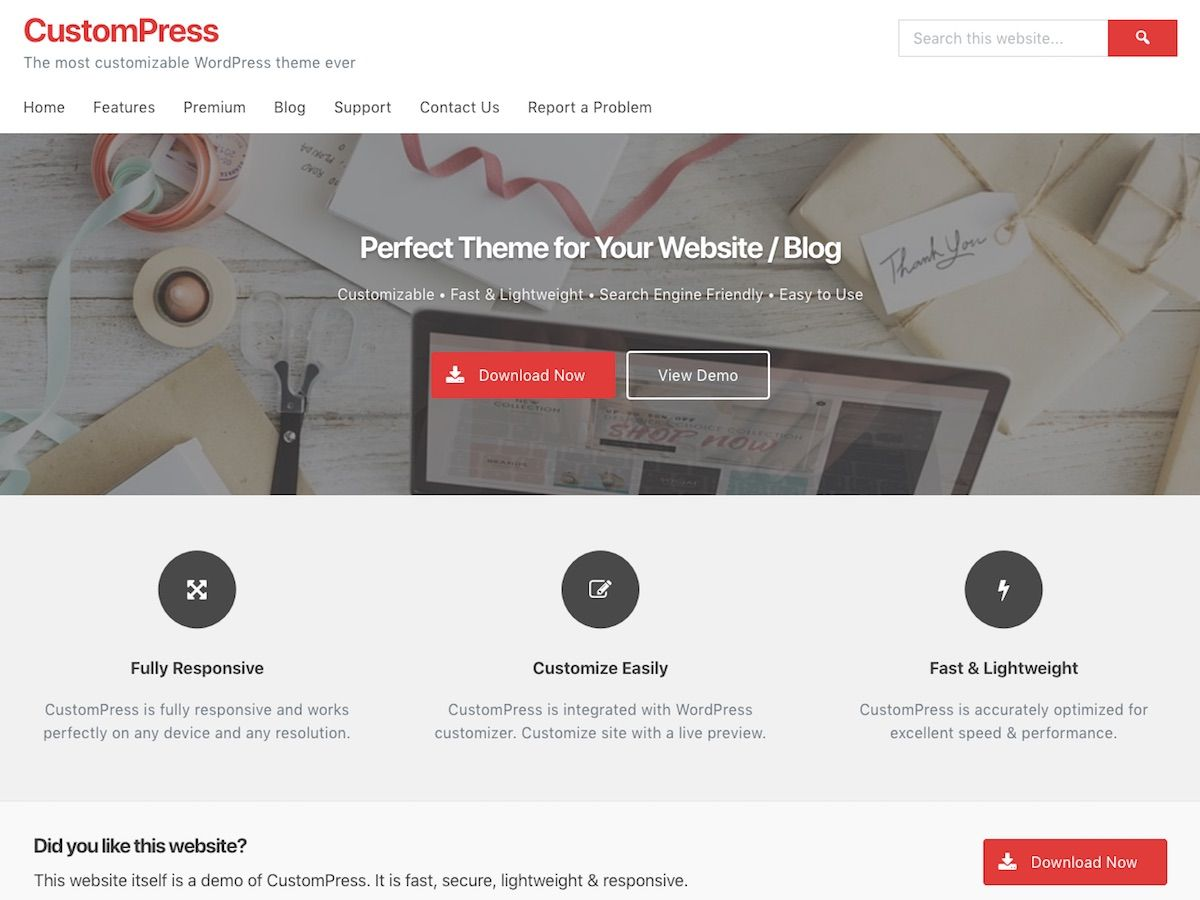
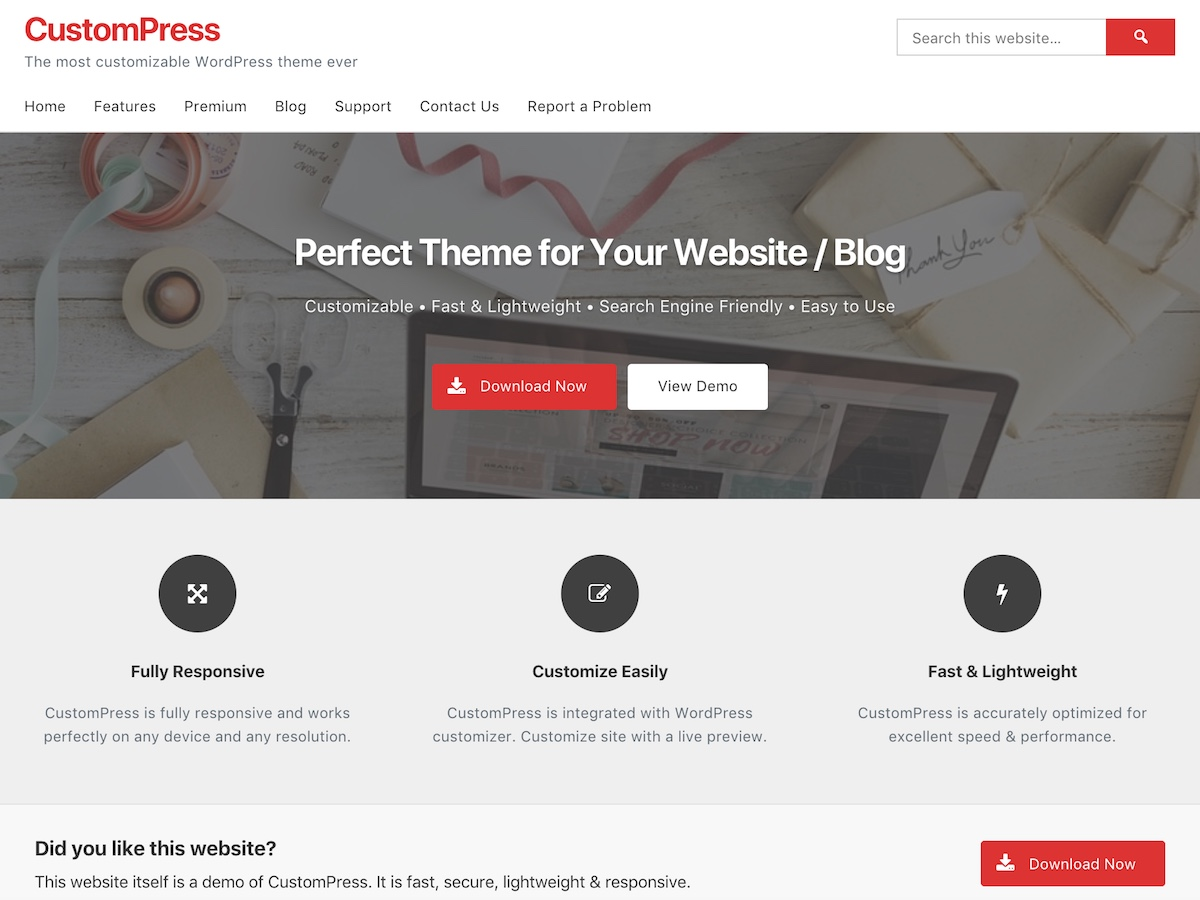
Add plugin recommendations. Add responsive styles.

diff --git a/style.css b/style.css
@@ -3,12 +3,12 @@ Theme Name: CustomPress
 Theme URI: https://wp-custompress.com
 Author: TwoPoints
 Author URI:
-Description: CustomPress is one of the most customizable WordPress theme ever. You can use WordPress Customizer with live preview to edit almost any setting in your website. It is lightweight, fast, fully responsive and customizable. It works on all devices & resolutions & all latest browsers. CustomPress is a well-coded, well-supported solid platform to kick-off your blog website.
-Version: 1.0.4
+Description: CustomPress is one of the most customizable WordPress theme ever. You can use WordPress Customizer with live preview to edit almost any setting on your website. It is lightweight, fast, fully responsive and customizable. It works on all devices, resolutions & all latest browsers. CustomPress is a well-coded, well-supported solid platform to kick-off your blog website. It also works well with all WordPress page builders like SiteOrigin, Beaver Builder, Elementor etc. The main style.css file is just 20kb (less than 10kb gzipped) including styling for responsive media queries.
+Version: 1.0.5
 License: GNU General Public License v3 or later
 License URI: https://www.gnu.org/licenses/gpl.html
 Text Domain: custompress
-Tags: custom-background, custom-logo, custom-menu, featured-images, threaded-comments, translation-ready
+Tags: custom-background, custom-logo, custom-menu, featured-images, threaded-comments, translation-ready, left-sidebar, right-sidebar, flexible-header, full-width-template, rtl-language-support, sticky-post, theme-options, blog
 
 */
 hr { background-color: #ccc; border: 0; height: 1px; margin-bottom: 1.5em; }
@@ -422,3 +422,26 @@ form.comment-form { margin-bottom: 0; }
 .enews-widget input[type="submit"] { width: 100%; padding: .5rem; }
 
 .enews-widget .widget-title { color: #fff; }
+
+/* mobile-portrait */
+@media screen and (max-width: 320px) { .site-title { font-size: 3.5rem; }
+  .container { padding: 0 1rem; }
+  .pad-top-40 { padding-top: 20px !important; }
+  .tp-panel { padding: 25px !important; margin-bottom: 25px; }
+  .entry-title { font-size: 1.75em; }
+  .slicknav_menu { font-size: 15px; }
+  body { font-size: 1.4em; }
+  .custompress-header-widget.widget_search form { width: 100%; }
+  .page-header .page-title { font-size: 2em; }
+  .page-header { padding: 25px !important; } }
+
+/* mobile-landscape */
+@media screen and (max-width: 568px) { .tp-panel { padding: 30px !important; }
+  body { font-size: 1.5em; }
+  .page-header { padding: 30px !important; } }
+
+/* tablet-portrait */
+@media screen and (max-width: 768px) { .site-footer .text-right { text-align: center; }
+  .site-title { text-align: center; }
+  .site-description { text-align: center; }
+  .site-footer { text-align: center; } }

diff --git a/sass/style.scss b/sass/style.scss
@@ -3,12 +3,12 @@ Theme Name: CustomPress
 Theme URI: https://wp-custompress.com
 Author: TwoPoints
 Author URI:
-Description: CustomPress is one of the most customizable WordPress theme ever. You can use WordPress Customizer with live preview to edit almost any setting in your website. It is lightweight, fast, fully responsive and customizable. It works on all devices & resolutions & all latest browsers. CustomPress is a well-coded, well-supported solid platform to kick-off your blog website.
-Version: 1.0.4
+Description: CustomPress is one of the most customizable WordPress theme ever. You can use WordPress Customizer with live preview to edit almost any setting on your website. It is lightweight, fast, fully responsive and customizable. It works on all devices, resolutions & all latest browsers. CustomPress is a well-coded, well-supported solid platform to kick-off your blog website. It also works well with all WordPress page builders like SiteOrigin, Beaver Builder, Elementor etc. The main style.css file is just 20kb (less than 10kb gzipped) including styling for responsive media queries.
+Version: 1.0.5
 License: GNU General Public License v3 or later
 License URI: https://www.gnu.org/licenses/gpl.html
 Text Domain: custompress
-Tags: custom-background, custom-logo, custom-menu, featured-images, threaded-comments, translation-ready
+Tags: custom-background, custom-logo, custom-menu, featured-images, threaded-comments, translation-ready, left-sidebar, right-sidebar, flexible-header, full-width-template, rtl-language-support, sticky-post, theme-options, blog
 
 */
 
@@ -45,3 +45,6 @@ Tags: custom-background, custom-logo, custom-menu, featured-images, threaded-com
 
 //Custom
 @import "custom";
+
+//Responsive
+@import "responsive";

diff --git a/sass/_responsive.scss b/sass/_responsive.scss
@@ -1,0 +1,76 @@
+/* mobile-portrait */
+@media screen and (max-width: 320px) {
+    .site-title {
+        font-size: 3.5rem;
+    }
+    .container {
+        padding: 0 1rem;
+    }
+
+    .pad-top-40 {
+        padding-top: 20px !important;
+    }
+
+    .tp-panel {
+        padding: 25px !important;
+        margin-bottom: 25px;
+    }
+
+    .entry-title {
+        font-size: 1.75em;
+    }
+
+    .slicknav_menu {
+        font-size: 15px;
+    }
+
+    body {
+        font-size: 1.4em;
+    }
+
+    .custompress-header-widget.widget_search form {
+        width: 100%;
+    }
+
+    .page-header .page-title {
+        font-size: 2em;
+    }
+
+    .page-header {
+        padding: 25px !important;
+    }
+}
+
+/* mobile-landscape */
+@media screen and (max-width: 568px) {
+    .tp-panel {
+        padding: 30px !important;
+    }
+
+    body {
+        font-size: 1.5em;
+    }
+
+    .page-header {
+        padding: 30px !important;
+    }
+}
+
+/* tablet-portrait */
+@media screen and (max-width: 768px) {
+    .site-footer .text-right {
+        text-align: center;
+    }
+
+    .site-title {
+        text-align: center;
+    }
+
+    .site-description {
+        text-align: center;
+    }
+
+    .site-footer {
+        text-align: center;
+    }
+}

diff --git a/inc/kirki/include-kirki.php b/inc/kirki/include-kirki.php
@@ -1,0 +1,87 @@
+<?php
+/**
+ * This file implements custom requirements for the Kirki plugin.
+ * It can be used as-is in themes (drop-in).
+ *
+ * @package kirki-helpers
+ */
+if ( ! class_exists( 'Kirki' ) ) {
+	if ( class_exists( 'WP_Customize_Section' ) && ! class_exists( 'Kirki_Installer_Section' ) ) {
+		/**
+		 * Recommend the installation of Kirki using a custom section.
+		 *
+		 * @see WP_Customize_Section
+		 */
+		class Kirki_Installer_Section extends WP_Customize_Section {
+			/**
+			 * Customize section type.
+			 *
+			 * @access public
+			 * @var string
+			 */
+			public $type = 'kirki_installer';
+			/**
+			 * Render the section.
+			 *
+			 * @access protected
+			 */
+			protected function render() {
+				// Determine if the plugin is not installed, or just inactive.
+				$plugins   = get_plugins();
+				$installed = false;
+				foreach ( $plugins as $plugin ) {
+					if ( 'Kirki' === $plugin['Name'] || 'Kirki Toolkit' === $plugin['Name'] ) {
+						$installed = true;
+					}
+				}
+				// Get the plugin-installation URL.
+				$plugin_install_url = add_query_arg(
+					array(
+						'action' => 'install-plugin',
+						'plugin' => 'kirki',
+					),
+					self_admin_url( 'update.php' )
+				);
+				$plugin_install_url = wp_nonce_url( $plugin_install_url, 'install-plugin_kirki' );
+				$classes = 'cannot-expand accordion-section control-section control-section-themes control-section-' . $this->type;
+				?>
+				<li id="accordion-section-<?php echo esc_attr( $this->id ); ?>" class="<?php echo esc_attr( $classes ); ?>" style="border-top:none;border-bottom:1px solid #ddd;padding:7px 14px 16px 14px;text-align:right;">
+					<?php if ( ! $installed ) : ?>
+						<p style="text-align:left;margin-top:0;"><?php esc_attr_e( 'To make your experience better with theme customization, we have integrated this theme with a powerful customizer plugin. Install it for free!', 'custompress' ); ?></p>
+						<a class="install-now button-primary button" data-slug="kirki" href="<?php echo esc_url_raw( $plugin_install_url ); ?>" aria-label="<?php esc_attr_e( 'Install Kirki Toolkit now', 'custompress' ); ?>" data-name="Kirki Toolkit">
+							<?php esc_html_e( 'Install Now', 'custompress' ); ?>
+						</a>
+					<?php else : ?>
+						<p style="text-align:left;margin-top:0;"><?php esc_attr_e( 'You have installed Kirki. Activate it to take advantage of this theme\'s features in the customizer.', 'custompress' ); ?></p>
+						<a class="install-now button-secondary button change-theme" data-slug="kirki" href="<?php echo esc_url_raw( self_admin_url( 'plugins.php' ) ); ?>" aria-label="<?php esc_attr_e( 'Activate Kirki Toolkit now', 'custompress' ); ?>" data-name="Kirki Toolkit">
+							<?php esc_html_e( 'Activate Now', 'custompress' ); ?>
+						</a>
+					<?php endif; ?>
+				</li>
+				<?php
+			}
+		}
+	}
+	if ( ! function_exists( 'kirki_installer_register' ) ) {
+		/**
+		 * Registers the section, setting & control for the kirki installer.
+		 *
+		 * @param object $wp_customize The main customizer object.
+		 */
+		function kirki_installer_register( $wp_customize ) {
+			$wp_customize->add_section( new Kirki_Installer_Section( $wp_customize, 'kirki_installer', array(
+				'title'      => '',
+				'capability' => 'install_plugins',
+				'priority'   => 0,
+			) ) );
+			$wp_customize->add_setting( 'kirki_installer_setting', array(
+				'sanitize_callback' => '__return_true',
+			) );
+			$wp_customize->add_control( 'kirki_installer_control', array(
+				'section'    => 'kirki_installer',
+				'settings'   => 'kirki_installer_setting',
+			) );
+		}
+		add_action( 'customize_register', 'kirki_installer_register' );
+	}
+}

diff --git a/inc/customizer.php b/inc/customizer.php
@@ -15,6 +15,11 @@ function custompress_customize_register( $wp_customize ) {
 	$wp_customize->get_setting( 'blogdescription' )->transport  = 'postMessage';
 	$wp_customize->get_setting( 'header_textcolor' )->transport = 'postMessage';
 
+	// Remove Sections & Settings
+	$wp_customize->remove_section( 'colors' );
+	$wp_customize->remove_section( 'header_image' );
+	$wp_customize->remove_control( 'display_header_text');
+
 	if ( isset( $wp_customize->selective_refresh ) ) {
 		$wp_customize->selective_refresh->add_partial( 'blogname', array(
 			'selector'        => '.site-title a',

diff --git a/inc/install-plugins.php b/inc/install-plugins.php
@@ -33,7 +33,14 @@ function custompress_register_required_plugins() {
 		array(
 			'name'      => 'Kirki',
 			'slug'      => 'kirki',
-			'required'  => false,
+		),
+		array(
+			'name'      => 'Page Builder by SiteOrigin',
+			'slug'      => 'siteorigin-panels',
+		),
+		array(
+			'name'      => 'SiteOrigin Widgets Bundle',
+			'slug'      => 'so-widgets-bundle',
 		),
 
 	);

diff --git a/functions.php b/functions.php
@@ -203,6 +203,7 @@ if ( class_exists( 'WooCommerce' ) ) {
 
 // Make sure Kirki (and other plugins) is included
 require_once get_template_directory() . '/inc/install-plugins.php';
+require_once get_template_directory() . '/inc/kirki/include-kirki.php';
 require_once get_template_directory() . '/inc/kirki/custompress-kirki.php';
 
 // Customizer settingd
